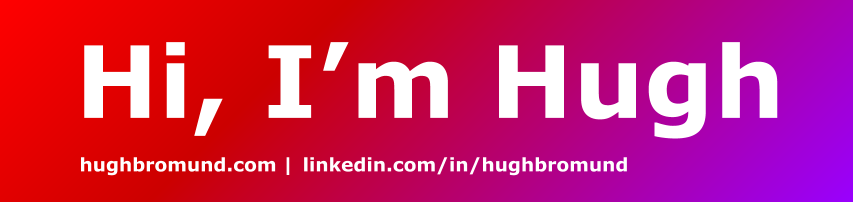
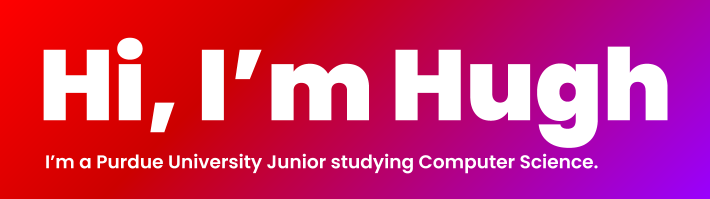
updated header again

Changed region(s): [[0.062, 0.1809, 0.5268, 0.6935], [0.5577, 0.1809, 0.9606, 0.7538], [0.062, 0.7538, 0.8366, 0.8744]]

diff --git a/README.md b/README.md
@@ -1,17 +1,17 @@
 <img src="https://github.com/hughbromund/hughbromund/raw/master/header.png" alt="Hugh Bromund" />
 
 ### Hi there 👋 I'm Hugh Bromund
-#### I'm a Sophomore studying Computer Science at Purdue University
 
-I'm currently working at LincLogix as a Software Developer Intern. I'm building awesome websites and apps using React, Node, Electron, and Express. 
+#### I'm a Junior studying Computer Science at Purdue University
+
+I'm currently working at LincLogix as a Software Developer Intern. I'm building awesome websites and apps using React, Node, Electron, and Express.
 
 Check out some of the cool projects I've been working on recently.
 
-| Name | Repo | Website |
-|------|------|---------|
-| *FINEX* | [repo](https://github.com/hughbromund/FINEX) | [live website](https://finex.money) |
-| *Adventurous Sloth* | [repo](https://github.com/hughbromund/AdventurousSloth) | [live website](https://adventurous-sloth-1.ue.r.appspot.com)|
-
+| Name                | Repo                                                    | Website                                                      |
+| ------------------- | ------------------------------------------------------- | ------------------------------------------------------------ |
+| _FINEX_             | [repo](https://github.com/hughbromund/FINEX)            | [live website](https://finex.money)                          |
+| _Adventurous Sloth_ | [repo](https://github.com/hughbromund/AdventurousSloth) | [live website](https://adventurous-sloth-1.ue.r.appspot.com) |
 
 <!--START_SECTION:waka-->
 <!--END_SECTION:waka-->
